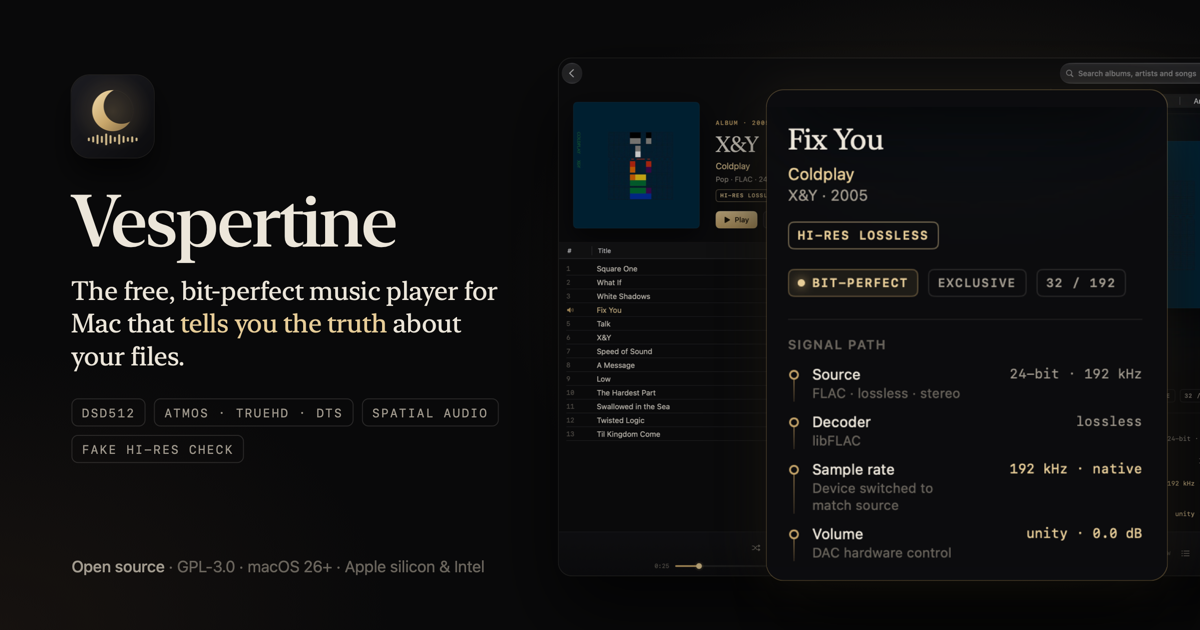
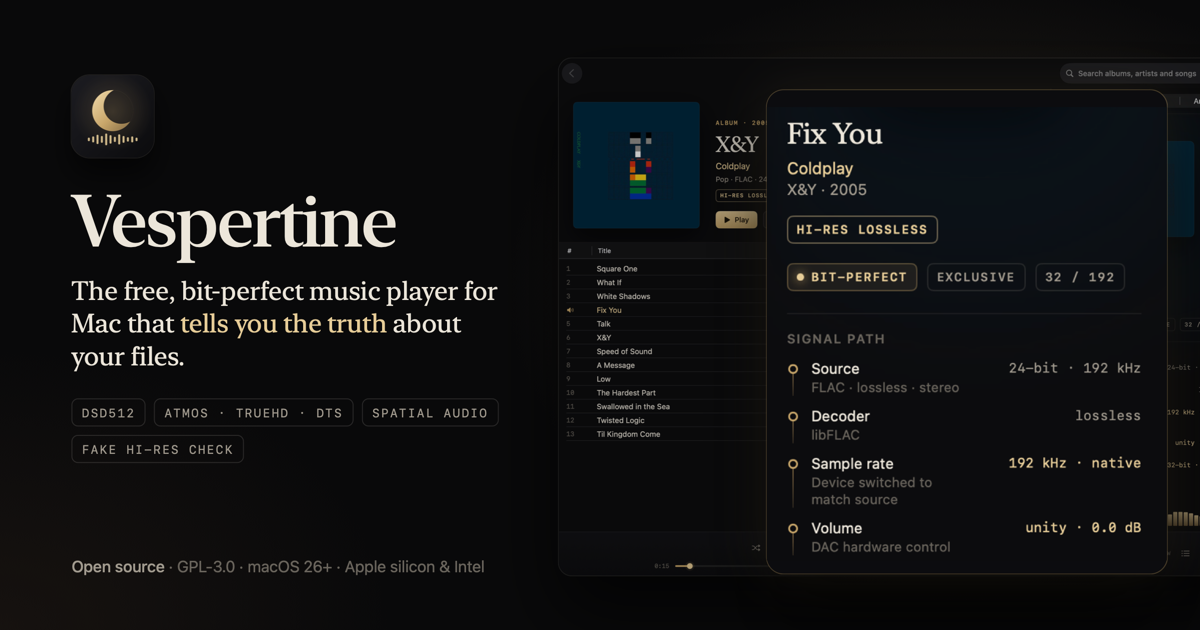
Tour GIF, social cards and website images from the 0.6.0 screenshots
The screenshots were retaken on Vespertine 0.6.0 (the sidebar now reads
Imported Music), so the tour opens on the full window again. Its bit-perfect
shot and the social card's signal-path panel are re-aimed at the new inspector
layout. The website's hero, Spatial Audio and fake hi-res images are rebuilt
from the same captures.

diff --git a/scripts/make-tour.swift b/scripts/make-tour.swift
@@ -28,16 +28,14 @@ func image(_ name: String) -> CGImage {
 struct Shot { let file: String; let from: CGRect; let to: CGRect; let caption: String }
 
 let full = CGRect(x: 0, y: 0, width: 2400, height: 1500)
-/// The window without its sidebar, for shots whose sidebar would distract.
-let content = CGRect(x: 392, y: 0, width: 2008, height: 1255)
 let shots: [Shot] = [
-    Shot(file: "docs/screenshots/multichannel-albums.png", from: content,
+    Shot(file: "docs/screenshots/multichannel-albums.png", from: full,
          to: CGRect(x: 520, y: 150, width: 1600, height: 1000),
          caption: "Your library, every format: SACD, DTS CDs, 5.1 FLAC, DSD"),
-    Shot(file: "docs/screenshots/bit-perfect-fiio-24-192.png", from: content,
-         to: CGRect(x: 1400, y: 690, width: 1000, height: 625),
+    Shot(file: "docs/screenshots/bit-perfect-fiio-24-192.png", from: full,
+         to: CGRect(x: 1290, y: 540, width: 1110, height: 693.75),
          caption: "BIT-PERFECT appears only when it's literally true"),
-    Shot(file: "docs/screenshots/stereo-and-surround-versions.png", from: content,
+    Shot(file: "docs/screenshots/stereo-and-surround-versions.png", from: full,
          to: CGRect(x: 1080, y: 140, width: 1320, height: 825),
          caption: "Stereo and 5.1 listed once; it plays the one your output suits"),
     Shot(file: "docs/screenshots/spatial-audio-airpods-max.png", from: CGRect(x: 600, y: 375, width: 1800, height: 1125),

diff --git a/site/index.html b/site/index.html
@@ -164,7 +164,7 @@
             <li><b>Export for Spatial Audio</b> as binaural stereo or multichannel ALAC.</li>
           </ul>
         </div>
-        <img class="shot" src="assets/spatial-audio-airpods-max-detail.jpg" alt="Dire Straits' Brothers in Arms from a DTS 5.1 CD, rendered as head-tracked Spatial Audio on AirPods Max, with a meter for each channel" loading="lazy" width="1300" height="1100">
+        <img class="shot" src="assets/spatial-audio-airpods-max-detail.jpg" alt="Dire Straits' Brothers in Arms from a DTS 5.1 CD, rendered as head-tracked Spatial Audio on AirPods Max, with a meter for each channel" loading="lazy" width="1260" height="1140">
       </div>
 
       <div class="feature flip">

diff --git a/docs/design/social-preview.html b/docs/design/social-preview.html
@@ -49,9 +49,9 @@
     background: #0C0C0F; border-radius: 18px;
     box-shadow: 0 0 0 1px rgba(200,166,106,.30), 0 0 60px rgba(200,166,106,.10), 0 44px 90px rgba(0,0,0,.8);
   }
-  /* From the title to the volume row: x 1824-2371, y 738-1368 of the screenshot, at 0.78. */
-  .crop { position: relative; height: 491px; overflow: hidden; }
-  .crop img { position: absolute; width: 1872px; left: -1423px; top: -576px; }
+  /* From the title to the volume row: x 1826-2373, y 540-1160 of the screenshot, at 0.78. */
+  .crop { position: relative; height: 484px; overflow: hidden; }
+  .crop img { position: absolute; width: 1872px; left: -1424px; top: -421px; }
 </style>
 </head>
 <body>
